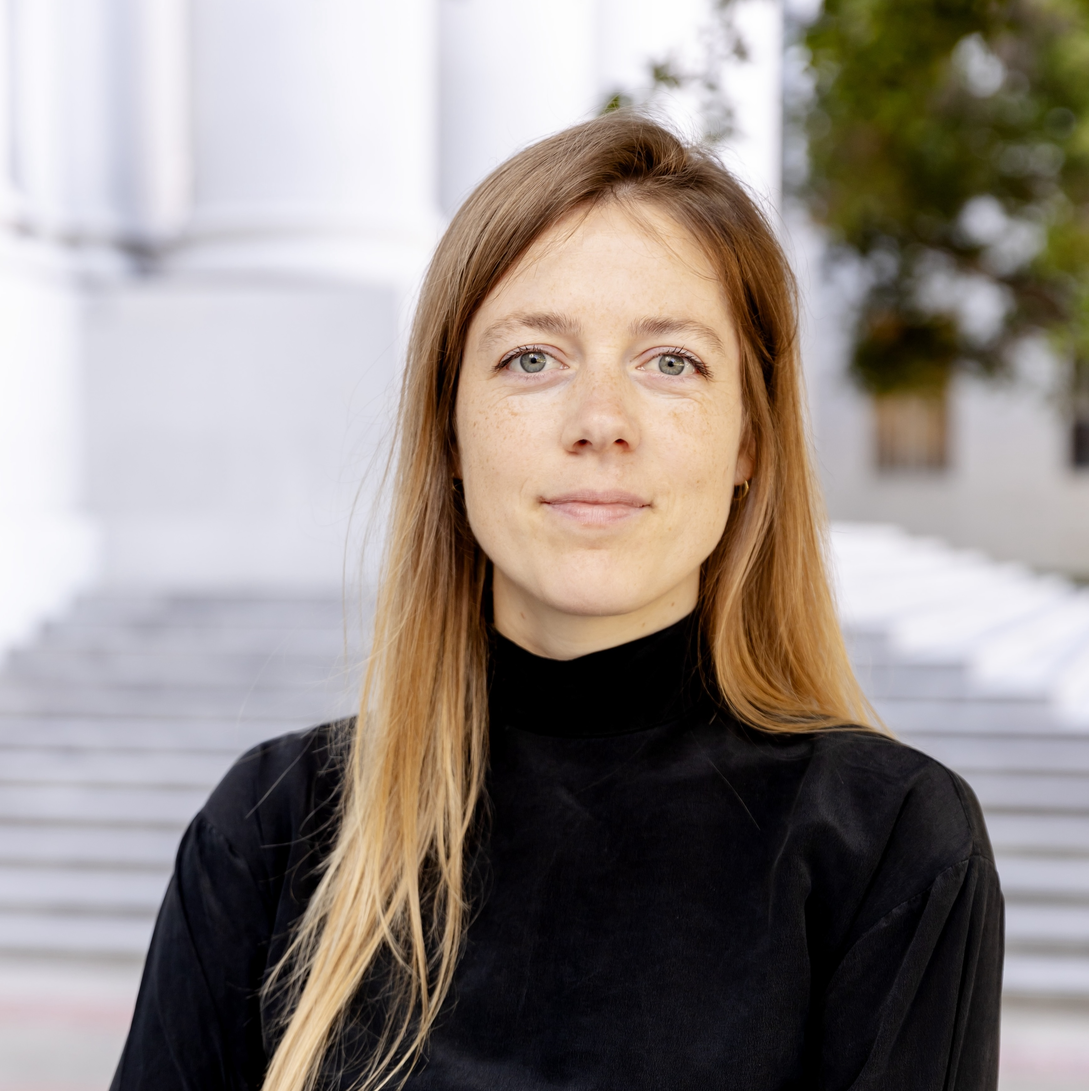
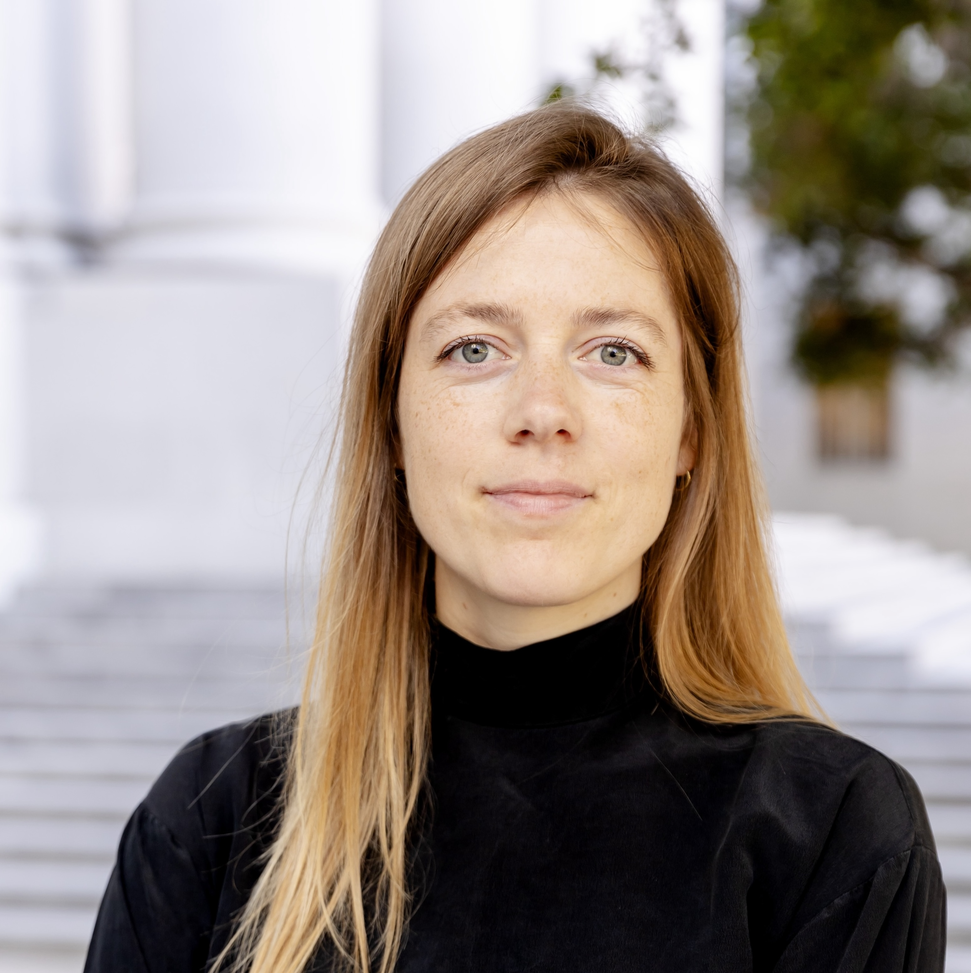
update people pages

diff --git a/_sass/_themes.scss b/_sass/_themes.scss
@@ -26,8 +26,8 @@
     #{color.channel($black-color, "blue", $space: rgb)},
     0.4
   );
-  --global-back-to-top-text-color: #{$white-color};
-  --global-newsletter-bg-color: #{$white-color};
+  --global-back-to-top-text-color: #{$black-color};
+  --global-newsletter-bg-color: #{$black-color};
   --global-newsletter-text-color: #{$black-color};
 
   --global-tip-block: #42b983;

diff --git a/_sass/_base.scss b/_sass/_base.scss
@@ -538,6 +538,7 @@ footer.sticky-bottom {
 .date-column {
   width: 75px;
   transform: translateX(-15px) translateY(-5px);
+  color: var(--global-text-color);
 }
 
 // Repositories

diff --git a/_pages/people.md b/_pages/people.md
@@ -2,7 +2,7 @@
 layout: page
 title: People
 permalink: /people/
-description: Members and collaborators of the TRL lab
+description: Members, collaborators, and alumni of the TRL lab
 display_categories: ["current", "collaborators", "alumni"]
 nav: true
 nav_order: 2
@@ -10,14 +10,14 @@ nav_order: 2
 
 <!-- pages/people.md -->
 <div class="people">
-  <!-- Display categorized projects -->
+  <!-- Display categorized person -->
 {% for category in page.display_categories %}
 <a id="{{ category }}" href=".#{{ category }}">
   <h2 class="category">{{ category }}</h2>
 </a>
 {% assign categorized_people = site.people | where: "category", category %}
 {% assign sorted_people = categorized_people | sort: "importance" %}
-<!-- Generate cards for each project -->
+<!-- Generate cards for each person -->
 <div class="row row-cols-1 row-cols-md-3">
   {% for people in sorted_people %}
     {% include people.liquid %}

diff --git a/_people/janhenrikbertrand.md b/_people/janhenrikbertrand.md
@@ -1,9 +1,10 @@
 ---
 layout: page
 name: "Jan Henrik Bertrand"
-role: Research student (ELLIS Honours Program, UvA)
-category: current
+role: Research student (MSc, ELLIS Honours Program, UvA)
+nowat: "startup co-founder"
+category: alumni
 img: assets/img/janhenrik-bertrand.jpeg
 redirect: https://de.linkedin.com/in/jan-henrik-bertrand-01a2871a0
-importance: 7
+importance: 9
 ---

diff --git a/_people/wojciechkosiuk.md b/_people/wojciechkosiuk.md
@@ -1,8 +1,9 @@
 ---
 layout: page
 name: "Wojciech Kosiuk"
-role: Research student (ELLIS Honours Program, UvA)
-category: current
+role: Research student (MSc, ELLIS Honours Program, UvA)
+nowat: "Mistral"
+category: alumni
 img: assets/img/wojciech-kosiuk.jpeg
 redirect: https://nl.linkedin.com/in/wojciech-kosiuk
 importance: 8

diff --git a/_people/louisgehringer.md b/_people/louisgehringer.md
@@ -1,8 +1,9 @@
 ---
 layout: page
 name: Louis Gehringer
-role: Research student (MSc, UvA)
-category: current
+role: Research student (MSc, ELLIS Honours Program, UvA)
+nowat: "startup co-founder"
+category: alumni
 img: assets/img/louis-gehringer.jpeg
 redirect: https://nl.linkedin.com/in/louisgehringer
 importance: 13

diff --git a/_people/hongqianxia.md b/_people/hongqianxia.md
@@ -1,8 +1,9 @@
 ---
 layout: page
 name: "Hongqian Xia"
-role: Research student (MSc, UvA/VU Amsterdam)
-category: current
+role: Research student (MSc, UvA/VU)
+nowat: "Booking"
+category: alumni
 img: assets/img/hongqian-xia.jpg
 redirect: https://www.linkedin.com/in/hongqian-xia-a86866171/
 importance: 11

diff --git a/_people/lisavanoosten.md b/_people/lisavanoosten.md
@@ -2,7 +2,8 @@
 layout: page
 name: "Lisa van Oosten"
 role: Research student (MSc, UvA)
-category: current
+nowat: "tbc"
+category: alumni
 img: assets/img/lisa-vanoosten.jpg
 redirect: https://nl.linkedin.com/in/lisa-van-oosten-153037107/en?trk=people-guest_people_search-card
 importance: 10

diff --git a/_people/nikolaselic.md b/_people/nikolaselic.md
@@ -1,9 +1,10 @@
 ---
 layout: page
 name: Nikola Selić
-role: Research student
+role: Research student (MSc, TUM)
+nowat: "tbc"
 category: alumni
 img: assets/img/nikola-selic.png
 redirect: https://scholar.google.com/citations?user=AfDUD-gAAAAJ&hl=en
-importance: 8
+importance: 10
 ---

diff --git a/_people/liangtelkamp.md b/_people/liangtelkamp.md
@@ -1,7 +1,8 @@
 ---
 layout: page
 name: Liang Telkamp
-role: Research student
+role: Research student (MSc, UvA)
+nowat: "United Nations & NextHuman"
 category: alumni
 img: assets/img/liang-telkamp.jpg
 redirect: https://www.illc.uva.nl/People/Students/person/5565/Liang-Telkamp

diff --git a/_people/danieldedios.md b/_people/danieldedios.md
@@ -4,6 +4,6 @@ name: "Daniel De Dios Allegue"
 role: Research student (BSc, TU Delft)
 category: current
 img: assets/img/daniel-dedios-allegue.jpg
-redirect: https://se.linkedin.com/in/daniel-de-dios-allegue
+redirect: https://daniallegue.github.io/
 importance: 12
 ---

diff --git a/_people/ahmedomar.md b/_people/ahmedomar.md
@@ -2,7 +2,8 @@
 layout: page
 name: "Ahmed Omar"
 role: Research student (MSc, Utrecht University)
-category: current
+nowat: "Uber"
+category: alumni
 img: assets/img/ahmed-omar.jpg
 redirect: https://nl.linkedin.com/in/ahmedomaro
 importance: 9
